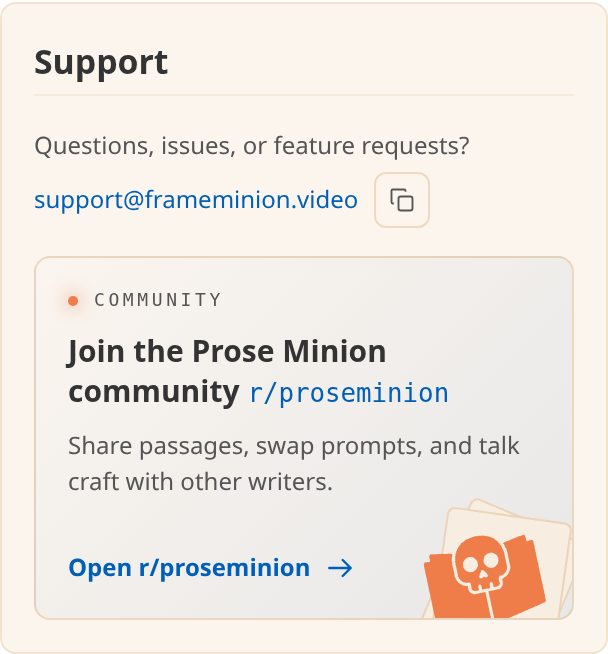
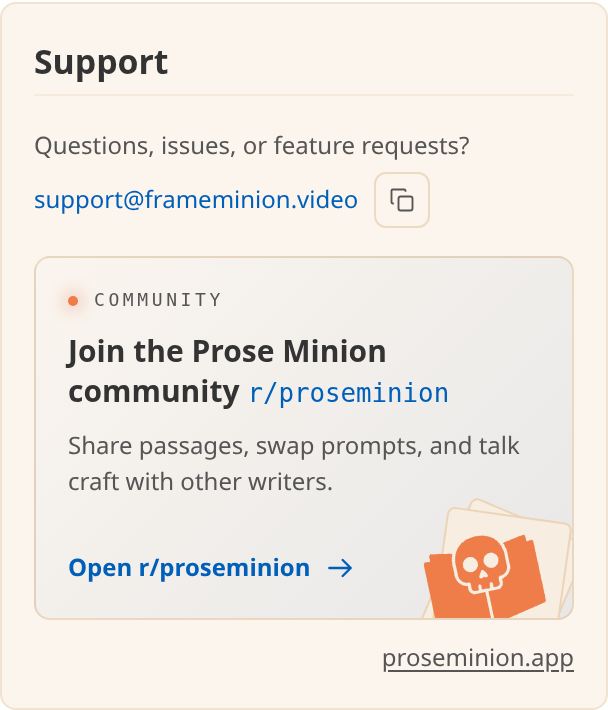
Animate the community card and link to the Prose Minion website

diff --git a/packages/core/src/presentation/webview/styles/settingsSupport.css b/packages/core/src/presentation/webview/styles/settingsSupport.css
@@ -78,20 +78,34 @@
   background: linear-gradient(135deg, var(--pm-surface), var(--pm-inset));
   color: var(--pm-text);
   text-decoration: none;
-  transition: border-color 160ms ease, box-shadow 160ms ease;
 }
 
 .pm-community-card:hover {
   border-color: var(--pm-accent);
-  box-shadow: 0 6px 20px -12px var(--pm-accent-ring);
+  box-shadow: 0 14px 30px -20px rgba(0, 0, 0, .8);
 }
 
 .pm-support-email:focus-visible,
+.pm-support-site:focus-visible,
 .pm-support-copy:focus-visible,
 .pm-community-card:focus-visible {
   outline: 2px solid var(--vscode-focusBorder, var(--pm-accent-hi));
   outline-offset: 3px;
 }
+
+.pm-support-site {
+  display: block;
+  width: fit-content;
+  margin: 6px 0 -4px auto;
+  padding: 4px 0;
+  color: var(--pm-muted);
+  font-size: 12px;
+  line-height: 1.5;
+  text-decoration: underline;
+  text-underline-offset: 2px;
+}
+
+.pm-support-site:hover { color: var(--pm-text); }
 
 .pm-community-eyebrow,
 .pm-community-title,
@@ -213,6 +227,15 @@
   color: var(--vscode-textLink-foreground, var(--pm-accent-hi));
 }
 
-@media (prefers-reduced-motion: reduce) {
-  .pm-community-card { transition: none; }
+@media (hover: hover) and (prefers-reduced-motion: no-preference) {
+  .pm-community-card {
+    transition: transform 120ms ease, border-color 120ms ease, box-shadow 120ms ease;
+  }
+  .pm-community-cta svg { transition: transform 160ms ease; }
+  .pm-community-art { transition: transform 260ms ease; }
+
+  .pm-community-card:hover { transform: translateY(-2px); }
+  .pm-community-card:hover .pm-community-cta svg { transform: translateX(3px); }
+  /* Match the diagonal travel of Frame Minion's film strip, moving the book and pages together. */
+  .pm-community-card:hover .pm-community-art { transform: translate(-4.25px, 4.25px); }
 }

diff --git a/packages/core/src/presentation/webview/components/SettingsSupport.tsx b/packages/core/src/presentation/webview/components/SettingsSupport.tsx
@@ -63,5 +63,8 @@ export const SettingsSupport: React.FC<SettingsSupportProps> = ({ onCopyEmail, c
         <span className="pm-community-book" />
       </span>
     </a>
+    <a className="pm-support-site" href="https://proseminion.app" target="_blank" rel="noopener noreferrer">
+      proseminion.app
+    </a>
   </section>
 );
